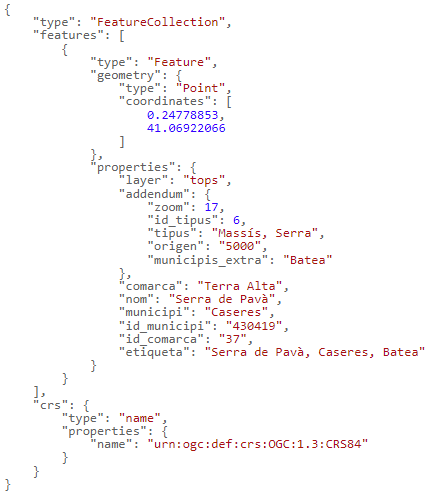
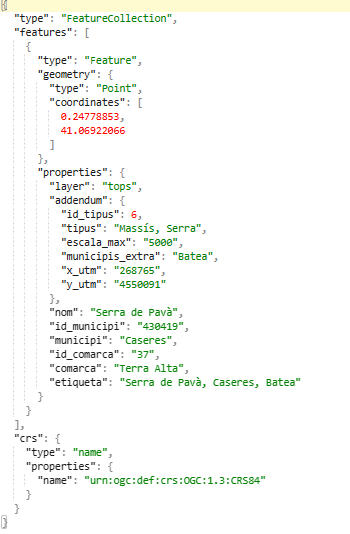
Deployed fb0d359 with MkDocs version: 1.5.3

diff --git a/parametres_invers/index.html b/parametres_invers/index.html
@@ -1396,13 +1396,8 @@
 <td>Addresses</td>
 </tr>
 <tr>
-<td><strong>addendum.origin</strong></td>
-<td>Scale origin</td>
-<td>Place names</td>
-</tr>
-<tr>
-<td><strong>addendum.zoom</strong></td>
-<td>Optimum zoom level</td>
+<td><strong>addendum.escala_max</strong></td>
+<td>Max Scale</td>
 <td>Place names</td>
 </tr>
 <tr>
@@ -1429,6 +1424,16 @@
 <td><strong>addendum.bbox_utm</strong></td>
 <td>UTM coordinates of the rectangle containing the street</td>
 <td>Addresses</td>
+</tr>
+<tr>
+<td><strong>addendum.x_utm</strong></td>
+<td>X UTM Coordinate</td>
+<td>All</td>
+</tr>
+<tr>
+<td><strong>addendum.y_utm</strong></td>
+<td>Y UTM Coordinate</td>
+<td>All</td>
 </tr>
 <tr>
 <td><strong>via</strong></td>

diff --git a/parametres_autocompletar/index.html b/parametres_autocompletar/index.html
@@ -1497,13 +1497,8 @@
 <td>All</td>
 </tr>
 <tr>
-<td><strong>addendum.origin</strong></td>
-<td>Scale origin</td>
-<td>Place names</td>
-</tr>
-<tr>
-<td><strong>addendum.zoom</strong></td>
-<td>Optimum zoom level</td>
+<td><strong>addendum.escala_max</strong></td>
+<td>Max Scale</td>
 <td>Place names</td>
 </tr>
 <tr>
@@ -1530,6 +1525,16 @@
 <td><strong>addendum.bbox_utm</strong></td>
 <td>UTM coordinates of the rectangle containing the street</td>
 <td>Addresses</td>
+</tr>
+<tr>
+<td><strong>addendum.x_utm</strong></td>
+<td>X UTM Coordinate</td>
+<td>All</td>
+</tr>
+<tr>
+<td><strong>addendum.y_utm</strong></td>
+<td>Y UTM Coordinate</td>
+<td>All</td>
 </tr>
 <tr>
 <td><strong>via</strong></td>

diff --git a/parametres_cerca/index.html b/parametres_cerca/index.html
@@ -1490,13 +1490,8 @@
 <td>All</td>
 </tr>
 <tr>
-<td><strong>addendum.origin</strong></td>
-<td>Scale origin</td>
-<td>Place names</td>
-</tr>
-<tr>
-<td><strong>addendum.zoom</strong></td>
-<td>Optimum zoom level</td>
+<td><strong>addendum.escala_max</strong></td>
+<td>Max Scale</td>
 <td>Place names</td>
 </tr>
 <tr>
@@ -1523,6 +1518,16 @@
 <td><strong>addendum.bbox_utm</strong></td>
 <td>UTM coordinates of the rectangle containing the street</td>
 <td>Addresses</td>
+</tr>
+<tr>
+<td><strong>addendum.x_utm</strong></td>
+<td>X UTM Coordinate</td>
+<td>All</td>
+</tr>
+<tr>
+<td><strong>addendum.y_utm</strong></td>
+<td>Y UTM Coordinate</td>
+<td>All</td>
 </tr>
 <tr>
 <td><strong>via</strong></td>

diff --git a/versions/index.html b/versions/index.html
@@ -1137,6 +1137,26 @@
 <td>Adding kilometric points data</td>
 <td>11/2024</td>
 </tr>
+<tr>
+<td>2.15</td>
+<td>Filter by municipality if indicated</td>
+<td>04/2025</td>
+</tr>
+<tr>
+<td>2.16</td>
+<td>Fuzzy search in autocompletar operation</td>
+<td>04/2025</td>
+</tr>
+<tr>
+<td>2.17</td>
+<td>Changes in the handling of addresses and isolated buildings. New fields: nexe_via, nom_via, codi_via_ine, bloc, area.</td>
+<td>10/2025</td>
+</tr>
+<tr>
+<td>2.17.1</td>
+<td>Changes in the treatment of toponyms: New field: escala_max. Not returned: addendum.origen and addendum.zoom</td>
+<td>11/2025</td>
+</tr>
 </tbody>
 </table>
 

diff --git a/ex_llogaret1/index.html b/ex_llogaret1/index.html
@@ -1060,7 +1060,8 @@
 <p><a href="https://eines.icgc.cat/geocodificador/autocompletar?text=carrer%20de%20l%27esglesia%201,la%20vall%20de%20boi&amp;layers=address&amp;size=6" target="_blank">https://eines.icgc.cat/geocodificador/autocompletar?text=<span style="color:red"><strong>carrer%20de%20l%27esglesia%201,la%20vall%20de%20boi</strong></span>&amp;layers=address&amp;size=6</a></p>
 <p><img alt="" src="../img/llogaret1.png" /></p>
 <p>The output is:</p>
-<p><img alt="" src="../img/llogaret.png" /></p>
+<p><img alt="" src="../img/llogaret-superior.png" />
+ <img alt="" src="../img/llogaret-inferior.png" /></p>
 
 
 
